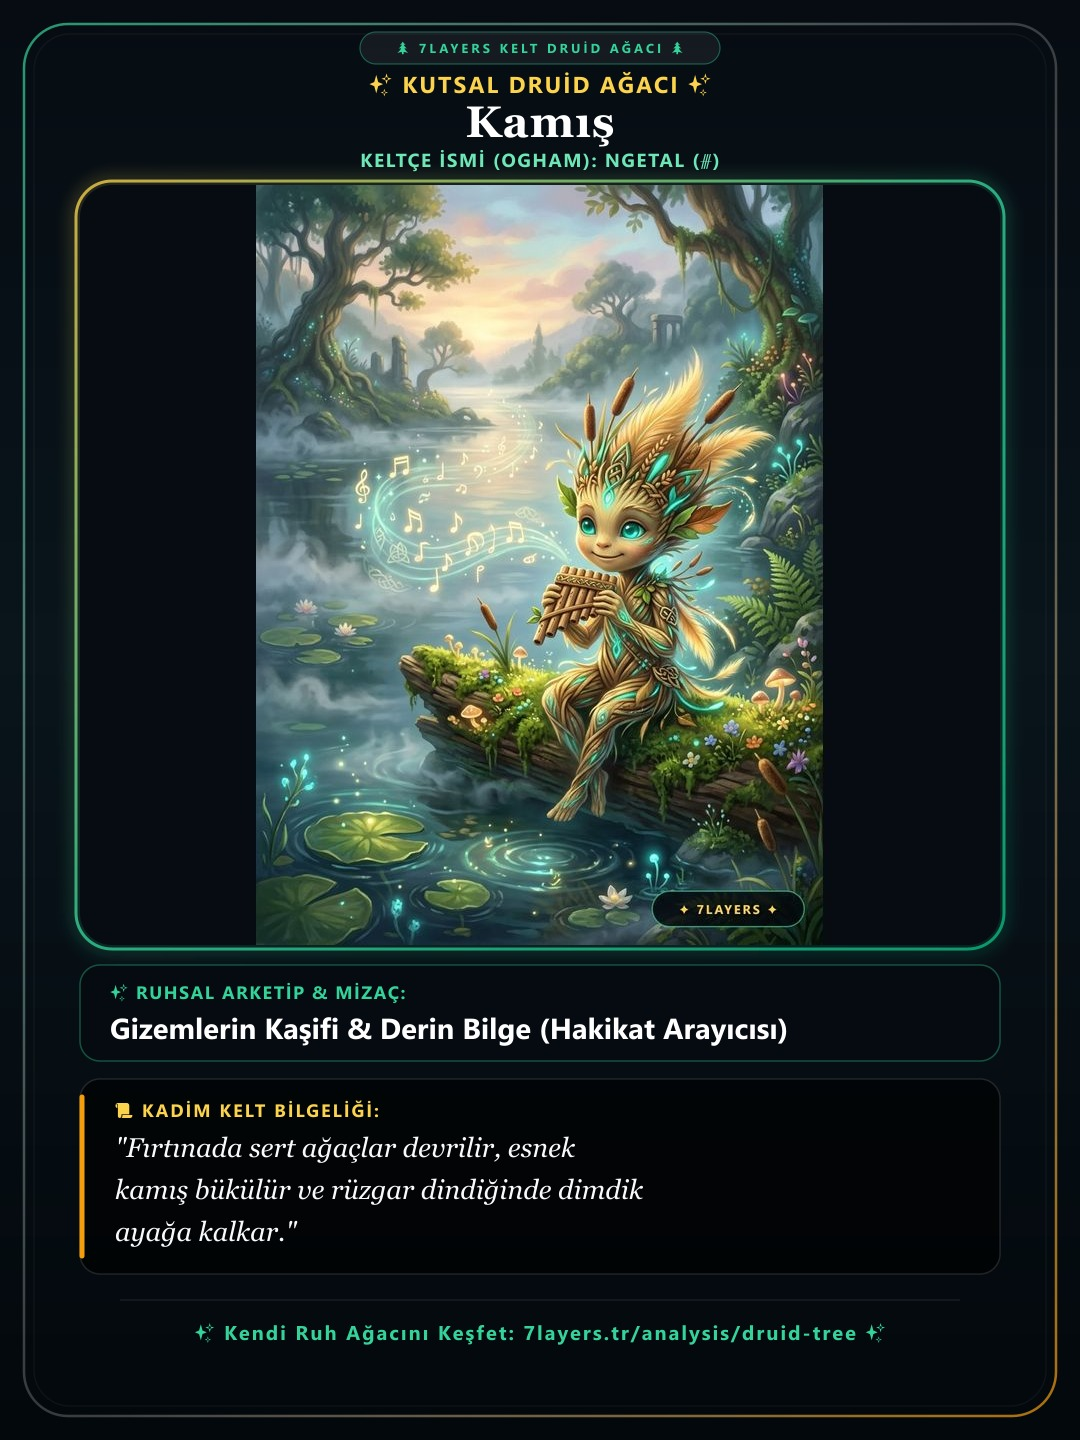
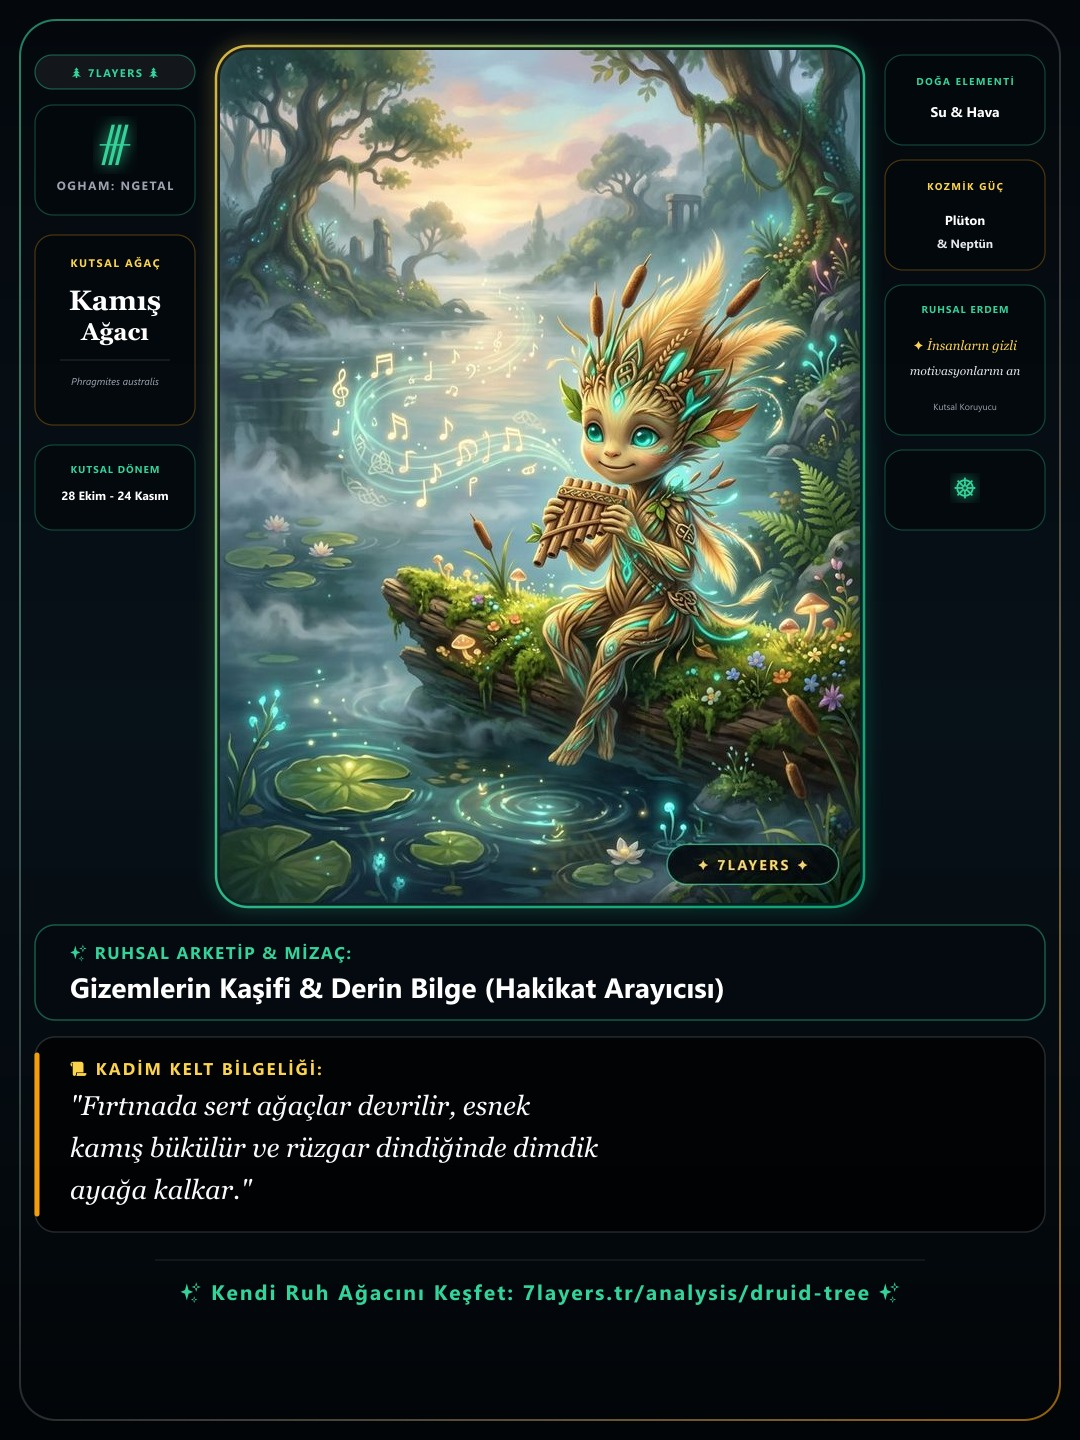
feat(druid): apply full-portrait side-column layout to all 13 story cards

diff --git a/src/features/astrology/server/druidTreeCardService.ts b/src/features/astrology/server/druidTreeCardService.ts
@@ -4,8 +4,10 @@ import { DruidTree } from '../engine/DruidTreeEngine';
 
 const CARD_WIDTH = 1080;
 const CARD_HEIGHT = 1440;
-const INNER_IMG_WIDTH = 920;
-const INNER_IMG_HEIGHT = 760;
+const PORTRAIT_WIDTH = 640;
+const PORTRAIT_HEIGHT = 853; // 3:4 aspect ratio
+const PORTRAIT_TOP = 50;
+const PORTRAIT_LEFT = (CARD_WIDTH - PORTRAIT_WIDTH) / 2; // 220px
 
 function escapeXml(unsafe: string): string {
   return unsafe.replace(/[<>&'"]/g, (c) => {
@@ -20,7 +22,7 @@ function escapeXml(unsafe: string): string {
   });
 }
 
-function wrapText(text: string, maxCharsPerLine: number = 42): string[] {
+function wrapText(text: string, maxCharsPerLine: number = 44): string[] {
   const words = text.split(' ');
   const lines: string[] = [];
   let currentLine = '';
@@ -39,12 +41,6 @@ function wrapText(text: string, maxCharsPerLine: number = 42): string[] {
 
 /**
  * Türkçe büyük ünlü ve ses uyumuna göre isme tam uygun iyelik eki oluşturur
- * Örnek: Baha -> BAHA'NIN DRUİD AĞACI
- *        Ali -> ALİ'NİN DRUİD AĞACI
- *        Mehmet -> MEHMET'İN DRUİD AĞACI
- *        Can -> CAN'IN DRUİD AĞACI
- *        Onur -> ONUR'UN DRUİD AĞACI
- *        Gül -> GÜL'ÜN DRUİD AĞACI
  */
 export function formatTurkishPossessive(name: string): string {
   const clean = name.trim();
@@ -70,37 +66,31 @@ export function formatTurkishPossessive(name: string): string {
   else if (['o', 'u'].includes(lastVowel)) suffix = isLastCharVowel ? 'NUN' : 'UN';
   else if (['ö', 'ü'].includes(lastVowel)) suffix = isLastCharVowel ? 'NÜN' : 'ÜN';
 
-  return `${clean.toLocaleUpperCase('tr-TR')}'${suffix} DRUİD AĞACI`;
+  return `${clean.toLocaleUpperCase('tr-TR')}'${suffix} KUTSAL AĞACI`;
 }
 
 export async function renderDruidTreeCard(tree: DruidTree, rawImagePath: string, personName?: string): Promise<Buffer> {
   const rawBuffer = await fs.promises.readFile(rawImagePath);
 
-  // Preserve 100% of the original vertical portrait character using fit: contain
-  // Dark flanks seamlessly match the card's deep celestial background
-  const resizedInnerImg = await sharp(rawBuffer)
-    .resize(INNER_IMG_WIDTH, INNER_IMG_HEIGHT, { 
-      fit: 'contain', 
-      background: { r: 6, g: 12, b: 18, alpha: 1 } 
-    })
+  // Resize raw image to exact 3:4 portrait (640x853)
+  const resizedPortrait = await sharp(rawBuffer)
+    .resize(PORTRAIT_WIDTH, PORTRAIT_HEIGHT, { fit: 'cover' })
     .toBuffer();
 
-  // Create rounded mask for inner image
+  // Create rounded mask for portrait image
   const maskSvg = `
-    <svg width="${INNER_IMG_WIDTH}" height="${INNER_IMG_HEIGHT}">
-      <rect x="0" y="0" width="${INNER_IMG_WIDTH}" height="${INNER_IMG_HEIGHT}" rx="32" ry="32" fill="#FFF"/>
+    <svg width="${PORTRAIT_WIDTH}" height="${PORTRAIT_HEIGHT}">
+      <rect width="${PORTRAIT_WIDTH}" height="${PORTRAIT_HEIGHT}" rx="28" fill="#FFF"/>
     </svg>
   `;
-  const roundedInnerImg = await sharp(resizedInnerImg)
+  const roundedPortrait = await sharp(resizedPortrait)
     .composite([{ input: Buffer.from(maskSvg), blend: 'dest-in' }])
     .png()
     .toBuffer();
 
-  const oghamTitle = `KELTÇE İSMİ (OGHAM): ${tree.oghamName.toUpperCase()} (${tree.oghamSymbol})`;
   const proverbLines = wrapText(`"${tree.druidicProverb}"`, 44);
-
   const cleanName = personName ? personName.trim() : '';
-  const personalizedTitle = cleanName ? formatTurkishPossessive(cleanName) : 'KUTSAL DRUİD AĞACI';
+  const treeTopLabel = cleanName ? formatTurkishPossessive(cleanName) : 'KUTSAL AĞAÇ';
   const footerText = cleanName 
     ? `✨ ${escapeXml(cleanName)} İçin Özel Analiz • 7layers.tr/analysis/druid-tree ✨`
     : `✨ Kendi Ruh Ağacını Keşfet: 7layers.tr/analysis/druid-tree ✨`;
@@ -109,9 +99,9 @@ export async function renderDruidTreeCard(tree: DruidTree, rawImagePath: string,
     <svg width="${CARD_WIDTH}" height="${CARD_HEIGHT}" viewBox="0 0 ${CARD_WIDTH} ${CARD_HEIGHT}" xmlns="http://www.w3.org/2000/svg">
       <defs>
         <linearGradient id="bgGrad" x1="0%" y1="0%" x2="0%" y2="100%">
-          <stop offset="0%" stop-color="#060C12"/>
-          <stop offset="45%" stop-color="#09141B"/>
-          <stop offset="100%" stop-color="#03080C"/>
+          <stop offset="0%" stop-color="#04080D"/>
+          <stop offset="50%" stop-color="#071118"/>
+          <stop offset="100%" stop-color="#020508"/>
         </linearGradient>
 
         <linearGradient id="goldGrad" x1="0%" y1="0%" x2="100%" y2="100%">
@@ -121,9 +111,9 @@ export async function renderDruidTreeCard(tree: DruidTree, rawImagePath: string,
         </linearGradient>
 
         <linearGradient id="borderGrad" x1="0%" y1="0%" x2="100%" y2="100%">
-          <stop offset="0%" stop-color="#34D399" stop-opacity="0.7"/>
-          <stop offset="50%" stop-color="#FFFFFF" stop-opacity="0.2"/>
-          <stop offset="100%" stop-color="#F59E0B" stop-opacity="0.7"/>
+          <stop offset="0%" stop-color="#34D399" stop-opacity="0.6"/>
+          <stop offset="50%" stop-color="#FFFFFF" stop-opacity="0.15"/>
+          <stop offset="100%" stop-color="#F59E0B" stop-opacity="0.6"/>
         </linearGradient>
 
         <filter id="glow" x="-20%" y="-20%" width="140%" height="140%">
@@ -139,54 +129,132 @@ export async function renderDruidTreeCard(tree: DruidTree, rawImagePath: string,
       <rect width="${CARD_WIDTH}" height="${CARD_HEIGHT}" fill="url(#bgGrad)"/>
 
       <!-- Outer Luxury Border -->
-      <rect x="24" y="24" width="${CARD_WIDTH - 48}" height="${CARD_HEIGHT - 48}" rx="44" fill="none" stroke="url(#borderGrad)" stroke-width="2.5"/>
-      <rect x="34" y="34" width="${CARD_WIDTH - 68}" height="${CARD_HEIGHT - 68}" rx="36" fill="none" stroke="#FFFFFF" stroke-opacity="0.04" stroke-width="1.5"/>
+      <rect x="20" y="20" width="${CARD_WIDTH - 40}" height="${CARD_HEIGHT - 40}" rx="36" fill="none" stroke="url(#borderGrad)" stroke-width="2"/>
 
-      <!-- Header Section -->
-      <g transform="translate(0, 0)">
-        <!-- Top Pill Badge -->
-        <rect x="360" y="32" width="360" height="32" rx="16" fill="#FFFFFF" fill-opacity="0.06" stroke="#34D399" stroke-opacity="0.4" stroke-width="1.2"/>
-        <text x="540" y="53" font-family="'Segoe UI', Roboto, sans-serif" font-size="13" font-weight="700" fill="#34D399" text-anchor="middle" letter-spacing="3">
-          🌲 7LAYERS KELT DRUİD AĞACI 🌲
+      <!-- Left Column Details (X: 35, Width: 160) -->
+      <g transform="translate(35, 55)">
+        <!-- Top Pill -->
+        <rect x="0" y="0" width="160" height="34" rx="17" fill="#FFFFFF" fill-opacity="0.06" stroke="#34D399" stroke-opacity="0.4" stroke-width="1.2"/>
+        <text x="80" y="22" font-family="'Segoe UI', Roboto, sans-serif" font-size="11" font-weight="bold" fill="#34D399" text-anchor="middle" letter-spacing="1.5">
+          🌲 7LAYERS 🌲
         </text>
 
-        <!-- Kişiye Özel İsim Şeridi -->
-        <text x="540" y="93" font-family="'Segoe UI', Roboto, sans-serif" font-size="23" font-weight="800" fill="#FCD34D" text-anchor="middle" letter-spacing="2">
-          ✨ ${escapeXml(personalizedTitle)} ✨
-        </text>
+        <!-- Vertical Ogham Rune Badge -->
+        <g transform="translate(0, 50)">
+          <rect x="0" y="0" width="160" height="110" rx="18" fill="#03080C" fill-opacity="0.8" stroke="#34D399" stroke-opacity="0.3" stroke-width="1.2"/>
+          <text x="80" y="55" font-family="'Georgia', serif" font-size="52" font-weight="bold" fill="#34D399" text-anchor="middle" filter="url(#glow)">
+            ${tree.oghamSymbol}
+          </text>
+          <text x="80" y="85" font-family="'Segoe UI', Roboto, sans-serif" font-size="12" font-weight="bold" fill="#9CA3AF" text-anchor="middle" letter-spacing="1.5">
+            OGHAM: ${tree.oghamName.toUpperCase()}
+          </text>
+        </g>
 
-        <!-- Ağaç Adı -->
-        <text x="540" y="137" font-family="'Georgia', serif" font-size="44" font-weight="bold" fill="#FFFFFF" text-anchor="middle" letter-spacing="1">
-          ${escapeXml(tree.name)}
-        </text>
+        <!-- Tree Name & Title Block -->
+        <g transform="translate(0, 180)">
+          <rect x="0" y="0" width="160" height="190" rx="18" fill="#03080C" fill-opacity="0.8" stroke="#F59E0B" stroke-opacity="0.3" stroke-width="1.2"/>
+          <text x="80" y="32" font-family="'Segoe UI', Roboto, sans-serif" font-size="${cleanName ? 9.5 : 11}" font-weight="bold" fill="#FCD34D" text-anchor="middle" letter-spacing="1.5">
+            ${escapeXml(treeTopLabel)}
+          </text>
+          <text x="80" y="75" font-family="'Georgia', serif" font-size="28" font-weight="bold" fill="#FFFFFF" text-anchor="middle">
+            ${escapeXml(tree.name.replace(' Ağacı', ''))}
+          </text>
+          <text x="80" y="105" font-family="'Georgia', serif" font-size="24" font-weight="bold" fill="#FFFFFF" text-anchor="middle">
+            Ağacı
+          </text>
+          <line x1="25" y1="125" x2="135" y2="125" stroke="#FFFFFF" stroke-opacity="0.15" stroke-width="1"/>
+          <text x="80" y="150" font-family="'Segoe UI', Roboto, sans-serif" font-size="10" font-style="italic" fill="#9CA3AF" text-anchor="middle">
+            ${escapeXml(tree.botanicalName)}
+          </text>
+        </g>
 
-        <!-- Keltçe İsmi & Ogham -->
-        <text x="540" y="167" font-family="'Segoe UI', Roboto, sans-serif" font-size="19" font-weight="700" fill="#6EE7B7" text-anchor="middle" letter-spacing="1.5">
-          ${escapeXml(oghamTitle)}
-        </text>
+        <!-- Vertical Period Badge -->
+        <g transform="translate(0, 390)">
+          <rect x="0" y="0" width="160" height="85" rx="18" fill="#03080C" fill-opacity="0.8" stroke="#34D399" stroke-opacity="0.3" stroke-width="1.2"/>
+          <text x="80" y="28" font-family="'Segoe UI', Roboto, sans-serif" font-size="10" font-weight="bold" fill="#34D399" text-anchor="middle" letter-spacing="1">
+            KUTSAL DÖNEM
+          </text>
+          <text x="80" y="55" font-family="'Segoe UI', Roboto, sans-serif" font-size="12" font-weight="bold" fill="#FFFFFF" text-anchor="middle">
+            ${escapeXml(tree.periods[0]?.label || '')}
+          </text>
+        </g>
       </g>
 
-      <!-- Inner Image Border Glow -->
-      <rect x="76" y="181" width="${INNER_IMG_WIDTH + 8}" height="${INNER_IMG_HEIGHT + 8}" rx="36" fill="none" stroke="url(#goldGrad)" stroke-width="3" opacity="0.8" filter="url(#glow)"/>
+      <!-- Center Portrait Image Glow Frame (x: 220, y: 50, w: 640, h: 853) -->
+      <rect x="${PORTRAIT_LEFT - 4}" y="${PORTRAIT_TOP - 4}" width="${PORTRAIT_WIDTH + 8}" height="${PORTRAIT_HEIGHT + 8}" rx="32" fill="none" stroke="url(#goldGrad)" stroke-width="2.5" opacity="0.85" filter="url(#glow)"/>
 
-      <!-- Bottom Card Details -->
-      <g transform="translate(0, 965)">
+      <!-- Right Column Details (X: 885, Width: 160) -->
+      <g transform="translate(885, 55)">
+        <!-- Element Box -->
+        <g transform="translate(0, 0)">
+          <rect x="0" y="0" width="160" height="90" rx="18" fill="#03080C" fill-opacity="0.8" stroke="#34D399" stroke-opacity="0.3" stroke-width="1.2"/>
+          <text x="80" y="30" font-family="'Segoe UI', Roboto, sans-serif" font-size="10" font-weight="bold" fill="#34D399" text-anchor="middle" letter-spacing="1.5">
+            DOĞA ELEMENTİ
+          </text>
+          <text x="80" y="62" font-family="'Segoe UI', Roboto, sans-serif" font-size="14" font-weight="bold" fill="#FFFFFF" text-anchor="middle">
+            ${escapeXml(tree.element)}
+          </text>
+        </g>
+
+        <!-- Ruler Planets Box -->
+        <g transform="translate(0, 105)">
+          <rect x="0" y="0" width="160" height="110" rx="18" fill="#03080C" fill-opacity="0.8" stroke="#F59E0B" stroke-opacity="0.3" stroke-width="1.2"/>
+          <text x="80" y="30" font-family="'Segoe UI', Roboto, sans-serif" font-size="10" font-weight="bold" fill="#FCD34D" text-anchor="middle" letter-spacing="1.5">
+            KOZMİK GÜÇ
+          </text>
+          <text x="80" y="65" font-family="'Segoe UI', Roboto, sans-serif" font-size="13" font-weight="bold" fill="#FFFFFF" text-anchor="middle">
+            ${escapeXml(tree.rulingPlanets.split('&')[0]?.trim() || tree.rulingPlanets)}
+          </text>
+          ${tree.rulingPlanets.includes('&') ? `
+            <text x="80" y="88" font-family="'Segoe UI', Roboto, sans-serif" font-size="12" font-weight="bold" fill="#E5E7EB" text-anchor="middle">
+              &amp; ${escapeXml(tree.rulingPlanets.split('&')[1]?.trim())}
+            </text>
+          ` : ''}
+        </g>
+
+        <!-- Light Trait Highlight -->
+        <g transform="translate(0, 230)">
+          <rect x="0" y="0" width="160" height="150" rx="18" fill="#03080C" fill-opacity="0.8" stroke="#34D399" stroke-opacity="0.3" stroke-width="1.2"/>
+          <text x="80" y="28" font-family="'Segoe UI', Roboto, sans-serif" font-size="10" font-weight="bold" fill="#34D399" text-anchor="middle" letter-spacing="1">
+            RUHSAL ERDEM
+          </text>
+          <text x="80" y="65" font-family="'Georgia', serif" font-size="13" font-style="italic" fill="#FCD34D" text-anchor="middle">
+            ✦ ${escapeXml(tree.lightTraits[0]?.slice(0, 16) || '')}
+          </text>
+          <text x="80" y="90" font-family="'Georgia', serif" font-size="12" font-style="italic" fill="#E5E7EB" text-anchor="middle">
+            ${escapeXml(tree.lightTraits[0]?.slice(16, 36) || '')}
+          </text>
+          <text x="80" y="125" font-family="'Segoe UI', Roboto, sans-serif" font-size="9" fill="#9CA3AF" text-anchor="middle">
+            Kutsal Koruyucu
+          </text>
+        </g>
+
+        <!-- Celtic Knot Seal -->
+        <g transform="translate(0, 395)">
+          <rect x="0" y="0" width="160" height="80" rx="18" fill="#03080C" fill-opacity="0.8" stroke="#34D399" stroke-opacity="0.3" stroke-width="1.2"/>
+          <text x="80" y="48" font-family="'Segoe UI', Roboto, sans-serif" font-size="28" fill="#34D399" text-anchor="middle" filter="url(#glow)">
+            ☸
+          </text>
+        </g>
+      </g>
+
+      <!-- Bottom Section (Y: 925 to 1400) -->
+      <g transform="translate(35, 925)">
         <!-- Archetype Box -->
-        <rect x="80" y="0" width="${CARD_WIDTH - 160}" height="96" rx="20" fill="#040A10" fill-opacity="0.75" stroke="#34D399" stroke-opacity="0.35" stroke-width="1.5"/>
-        
-        <text x="110" y="34" font-family="'Segoe UI', Roboto, sans-serif" font-size="18" font-weight="bold" fill="#34D399" letter-spacing="1.5">
+        <rect x="0" y="0" width="${CARD_WIDTH - 70}" height="95" rx="20" fill="#040A10" fill-opacity="0.85" stroke="#34D399" stroke-opacity="0.4" stroke-width="1.5"/>
+        <text x="35" y="34" font-family="'Segoe UI', Roboto, sans-serif" font-size="17" font-weight="bold" fill="#34D399" letter-spacing="1.5">
           ✨ RUHSAL ARKETİP &amp; MİZAÇ:
         </text>
-        <text x="110" y="74" font-family="'Segoe UI', Roboto, sans-serif" font-size="29" font-weight="bold" fill="#FFFFFF">
+        <text x="35" y="73" font-family="'Segoe UI', Roboto, sans-serif" font-size="28" font-weight="bold" fill="#FFFFFF">
           ${escapeXml(tree.archetype)}
         </text>
 
-        <!-- Proverb Box (Large, High-Contrast & Wrapped) -->
-        <g transform="translate(80, 114)">
-          <rect x="0" y="0" width="${CARD_WIDTH - 160}" height="195" rx="20" fill="#000000" fill-opacity="0.65" stroke="#FFFFFF" stroke-opacity="0.12" stroke-width="1.5"/>
+        <!-- Proverb Box -->
+        <g transform="translate(0, 112)">
+          <rect x="0" y="0" width="${CARD_WIDTH - 70}" height="195" rx="20" fill="#000000" fill-opacity="0.75" stroke="#FFFFFF" stroke-opacity="0.14" stroke-width="1.5"/>
           <line x1="2" y1="18" x2="2" y2="177" stroke="#F59E0B" stroke-width="5" stroke-linecap="round"/>
 
-          <text x="35" y="38" font-family="'Segoe UI', Roboto, sans-serif" font-size="18" font-weight="700" fill="#FCD34D" letter-spacing="2">
+          <text x="35" y="38" font-family="'Segoe UI', Roboto, sans-serif" font-size="17" font-weight="700" fill="#FCD34D" letter-spacing="2">
             📜 KADİM KELT BİLGELİĞİ:
           </text>
 
@@ -200,8 +268,8 @@ export async function renderDruidTreeCard(tree: DruidTree, rawImagePath: string,
         </g>
 
         <!-- Footer Brand Line -->
-        <line x1="120" y1="335" x2="${CARD_WIDTH - 120}" y2="335" stroke="#FFFFFF" stroke-opacity="0.12" stroke-width="1"/>
-        <text x="540" y="375" font-family="'Segoe UI', Roboto, sans-serif" font-size="20" font-weight="700" fill="#34D399" text-anchor="middle" letter-spacing="2">
+        <line x1="120" y1="335" x2="${CARD_WIDTH - 190}" y2="335" stroke="#FFFFFF" stroke-opacity="0.12" stroke-width="1"/>
+        <text x="${(CARD_WIDTH - 70) / 2}" y="375" font-family="'Segoe UI', Roboto, sans-serif" font-size="21" font-weight="700" fill="#34D399" text-anchor="middle" letter-spacing="2">
           ${footerText}
         </text>
       </g>
@@ -211,9 +279,9 @@ export async function renderDruidTreeCard(tree: DruidTree, rawImagePath: string,
   return sharp(Buffer.from(overlaySvg))
     .composite([
       {
-        input: roundedInnerImg,
-        top: 185,
-        left: 80
+        input: roundedPortrait,
+        top: PORTRAIT_TOP,
+        left: PORTRAIT_LEFT
       }
     ])
     .jpeg({ quality: 92 })
